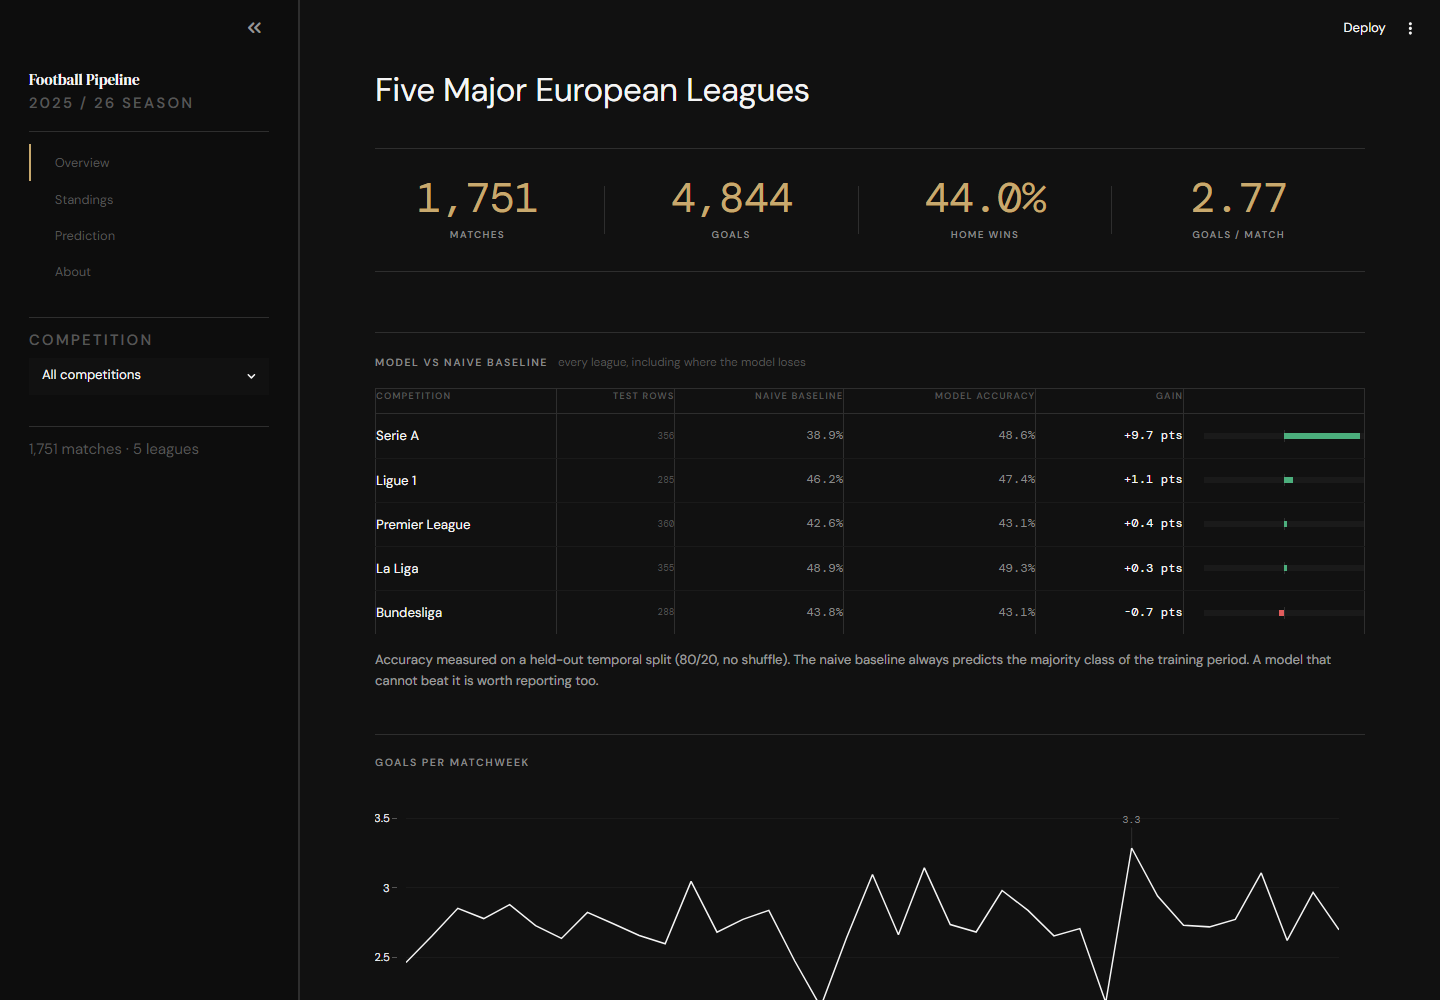
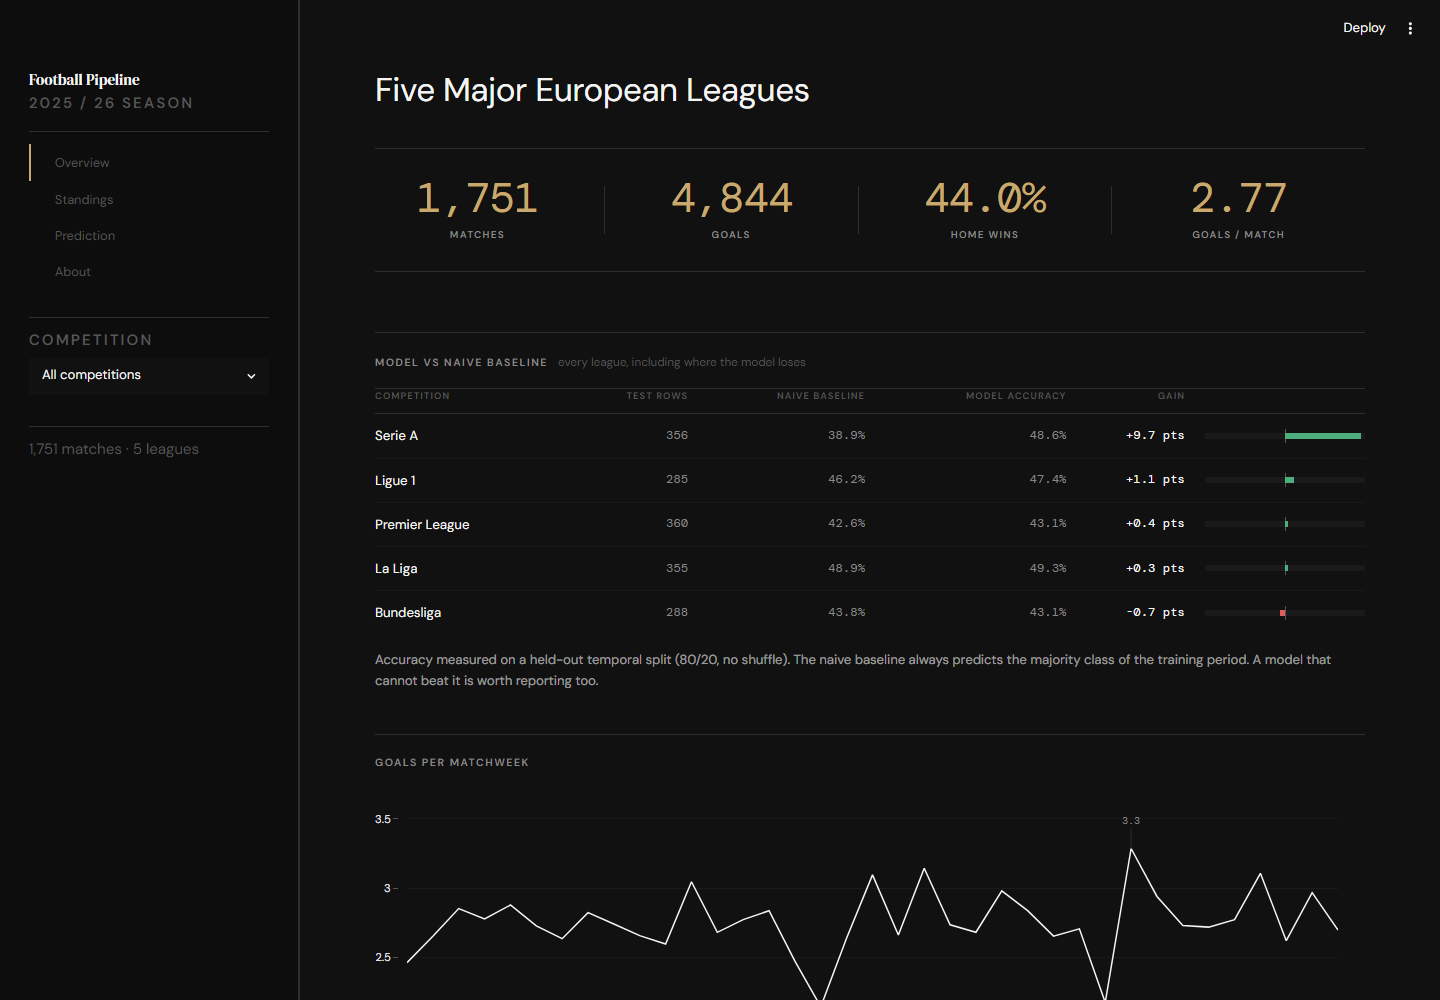
style: sortir l'URL des polices du template CSS
La ligne @import dépassait la limite de 100 colonnes du .flake8. L'URL devient
une constante FONTS_URL injectée comme les autres tokens. src/ui/ passe flake8
sans avertissement.

Claude-Session: https://claude.ai/code/session_018ky7DwSbMKdJ71ZDhjcrob

diff --git a/src/ui/theme.py b/src/ui/theme.py
@@ -70,6 +70,15 @@ SIZE: dict[str, str] = {
 # Une seule graduation d'espacement, en px.
 SPACE = (4, 8, 12, 16, 20, 28, 40, 56)
 
+# Les trois familles, chargées en une requête.
+FONTS_URL = (
+    "https://fonts.googleapis.com/css2"
+    "?family=DM+Serif+Display:ital@0;1"
+    "&family=DM+Sans:ital,wght@0,300;0,400;0,500;0,600;1,400"
+    "&family=DM+Mono:wght@300;400;500"
+    "&display=swap"
+)
+
 
 def _t(name: str) -> str:
     return COLOR[name]
@@ -82,7 +91,7 @@ def _t(name: str) -> str:
 _CSS_TEMPLATE = Template(
     """
 <style>
-@import url('https://fonts.googleapis.com/css2?family=DM+Serif+Display:ital@0;1&family=DM+Sans:ital,wght@0,300;0,400;0,500;0,600;1,400&family=DM+Mono:wght@300;400;500&display=swap');
+@import url('$fonts_url');
 
 /* ── Reset & base ── */
 *, *::before, *::after {
@@ -633,6 +642,7 @@ hr {
 def css() -> str:
     """La feuille de style complète, construite depuis les tokens."""
     mapping = {
+        "fonts_url": FONTS_URL,
         **COLOR,
         "sans": FONT["sans"],
         "mono": FONT["mono"],
